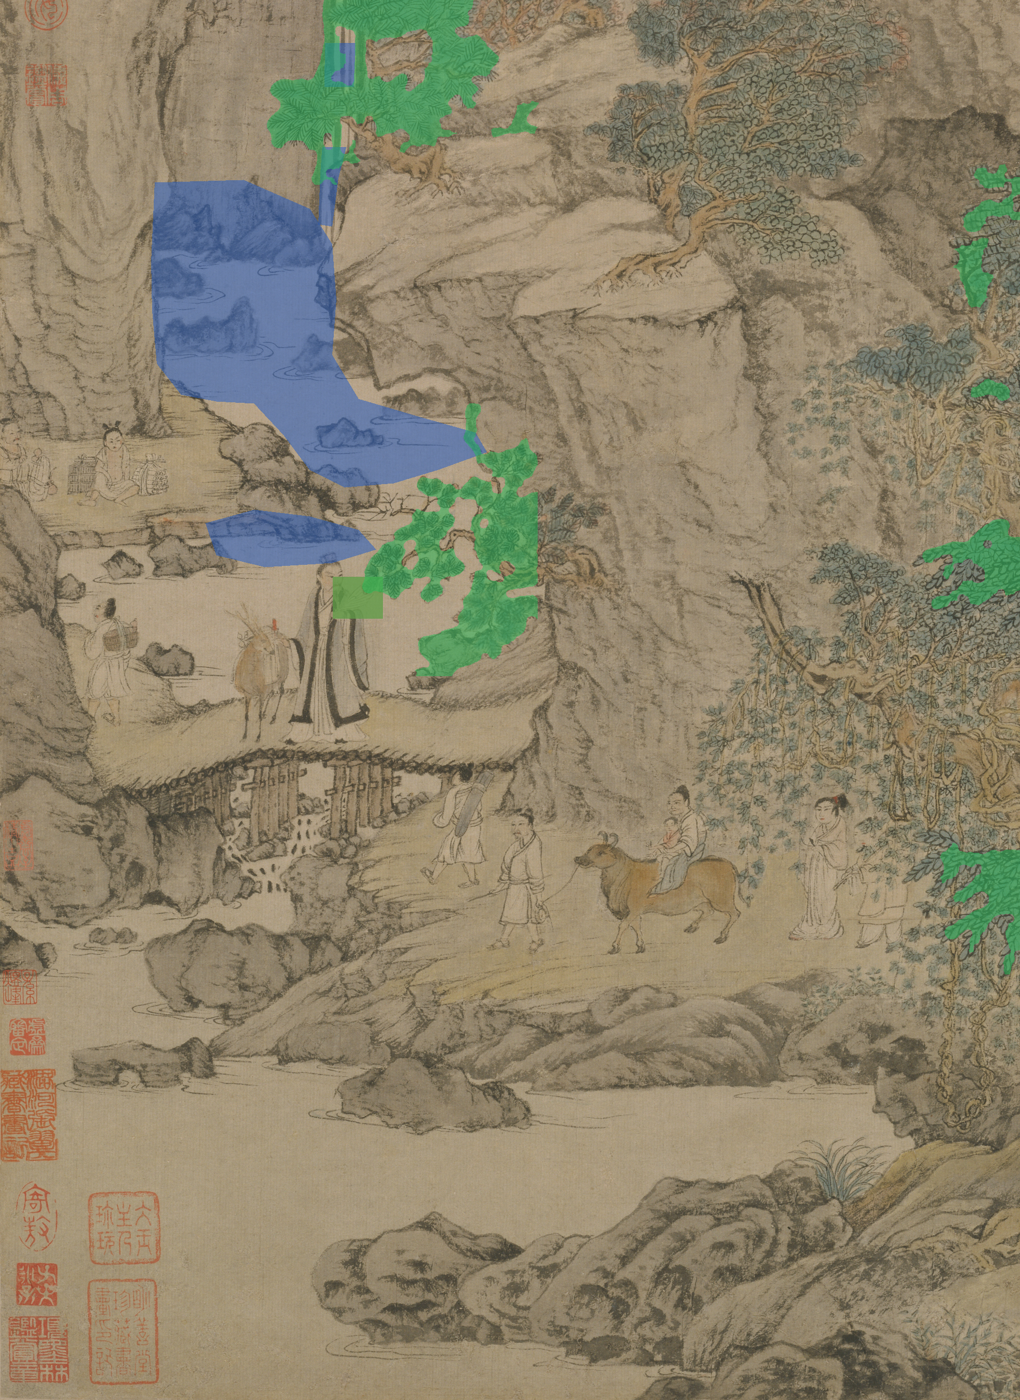
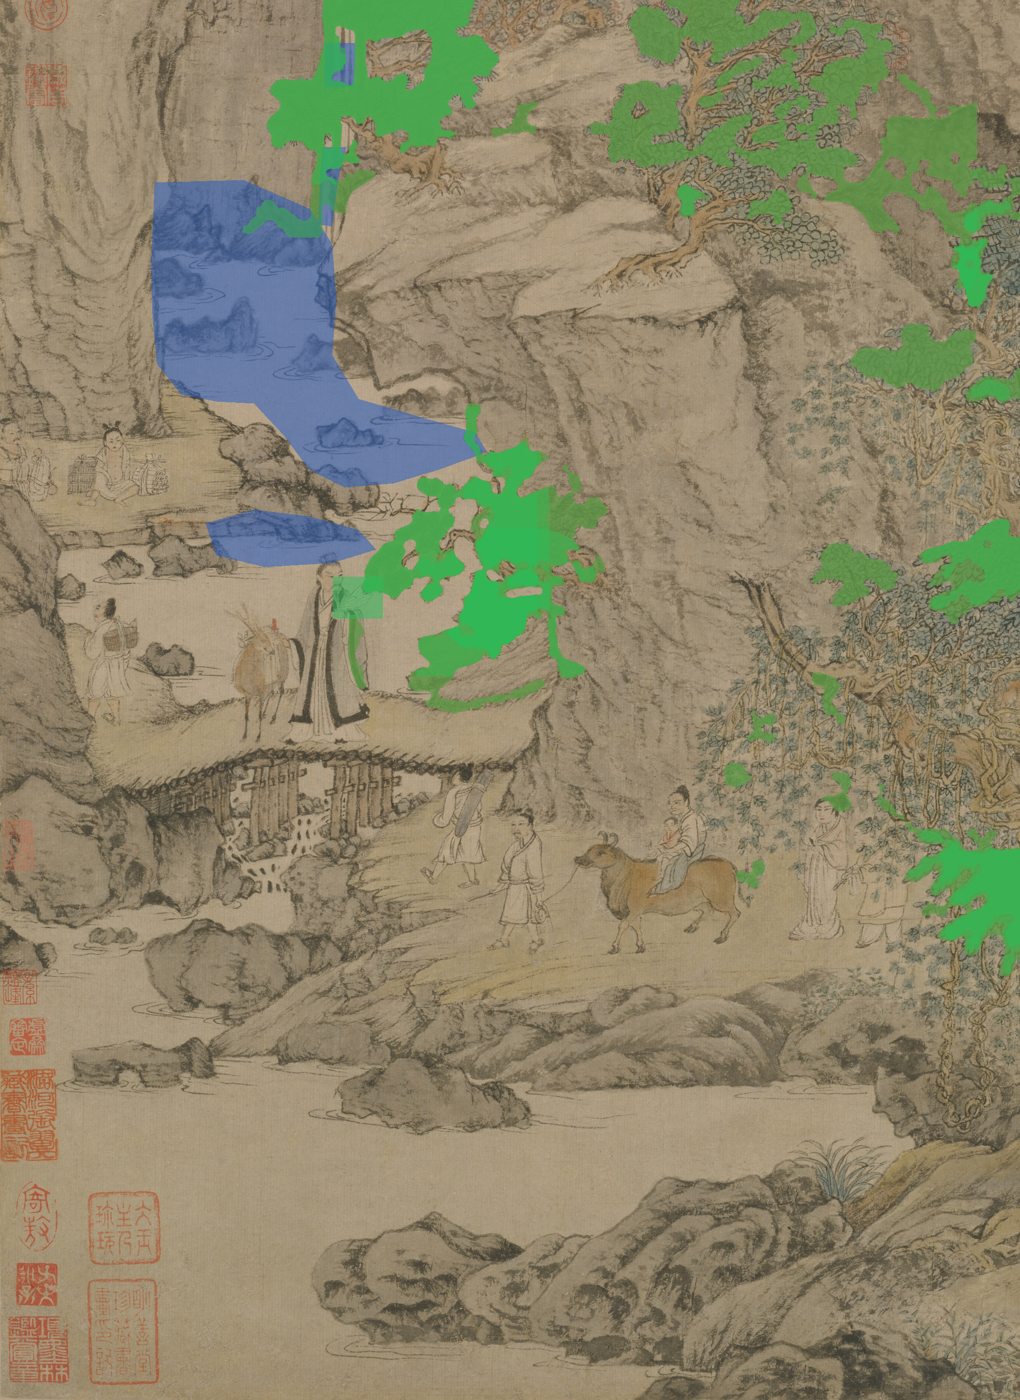
z1's living layer rebuilt from the catalogue: 46 patches, foliage 8 to 33
Full chain live for the first time: the catalogue decides what a leaf is, SAM
makes the boundary exact, the ink cut picks the marks, and the card swings over
held leaves rather than a synthesised plate.

  living-masks   8 -> 24 regions
  built.json    21 -> 46 patches  (foliage 8 -> 33, wave 8, figure 3, fall 2)

Three bugs fixed on the way, all the same shape -- a legitimate EMPTY RESULT
treated as an error:
  * hinge-foliage REQUIRED --plate and opened it even under hold, so every new
    region died on a clean plate the builder had correctly stopped making. Only
    the 8 old regions passed, on stale plates from earlier builds.
  * build-zone-living still PASSED that plate path. Removing the step but
    leaving its argument is half a change.
  * a region whose ink never reaches --min-px once the leaf mask has gated it
    (cat-pine-top-roots, a bamboo tuft) exited non-zero and took 23 other
    regions with it. Now skipped with a line saying so; anything else still
    stops the build.

Expect the same shape again when the catalogue reaches the summits, where whole
tiles are bare silk.

diff --git a/jobs/wang-meng/living/build-zone-living.py b/jobs/wang-meng/living/build-zone-living.py
@@ -102,7 +102,8 @@ def _foliage_motion(wd, cls, pivot, cx0, cy0, exclude=None):
                   "--grow", str(cls.get("cleanGrow", 4)),
                   "--method", cls.get("cleanMethod", "shiftmap")]
     hinge = ["python3", str(ROOT / "tools/hinge-foliage.py"),
-             "--plate", str(clean), "--source", str(wd / "plate.png"),
+             *([] if cls.get("under") == "hold" else ["--plate", str(clean)]),
+             "--source", str(wd / "plate.png"),
              "--cards", str(wd / "mask"),
              "--out", str(wd / "drawings"), "--preview", str(wd / "preview.mp4"),
              "--frames", str(cls.get("drawings", 96) * cls.get("on", 2)),
@@ -626,10 +627,23 @@ if a.stage == "cycle":
 
         fn = TECHNIQUES[cls["technique"]]
         args = (wd, cls, pivot, cx0, cy0) + ((extra,) if extra is not None else ())
+        # A REGION THAT YIELDS NO CARD IS AN ANSWER, NOT A FAILURE, and it must
+        # not take 23 other regions down with it. Catalogued leaf masses are
+        # authored at every scale: some are a bamboo tuft whose ink never reaches
+        # --min-px once the leaf mask has gated it. Skip it, say so, keep going.
+        # Anything else still stops the build.
+        empty = False
         for step in fn(*args):
             res = subprocess.run(step, cwd=ROOT, capture_output=True, text=True)
             if res.returncode != 0:
+                if "reached --min-px" in res.stderr or "no card" in res.stderr:
+                    print(f"    {uid}: no card met --min-px -- region left still",
+                          file=sys.stderr)
+                    empty = True
+                    break
                 sys.exit(f"{uid}: {Path(step[1]).name} failed\n{res.stderr[-900:]}")
+        if empty:
+            continue
         cyc = json.loads((wd / "drawings" / "cycle.json").read_text())
         draw = [np.array(Image.open(wd / "drawings" / f"dr-{i:03d}.png").convert("RGB"))
                 for i in range(cyc["drawings"])]

diff --git a/tools/hinge-foliage.py b/tools/hinge-foliage.py
@@ -64,7 +64,11 @@ from PIL import Image
 Image.MAX_IMAGE_PIXELS = None
 
 p = argparse.ArgumentParser()
-p.add_argument('--plate', required=True, help='background with the cards removed')
+p.add_argument('--plate', help='background with the cards removed. NOT REQUIRED under '
+                    '--under hold, which never reads it: the source stays intact beneath the '
+                    'cards, so there is no hole for a clean plate to fill. Demanding one there '
+                    'forces a caller to synthesise a plate it will not use, which is the cost '
+                    'that kept foliage coverage at 8 authored regions on this painting.')
 p.add_argument('--under', choices=('clean', 'hold'), default='clean',
                help="what a card reveals when it swings off its rest position. "
                     "clean = the synthesised ground from --plate (bare silk and "
@@ -196,8 +200,18 @@ p.add_argument('--ink-close', type=int, default=1,
                     'without bridging across clusters')
 a = p.parse_args()
 
-plate = np.array(Image.open(a.plate).convert('RGB'), np.float32)
+if a.under == 'hold':
+    # Nothing is removed, so the "background with the cards removed" IS the
+    # source. Bound to it rather than read from disk so the shape check below
+    # and the metadata stay meaningful.
+    plate = None
+elif not a.plate:
+    sys.exit('--plate is required unless --under hold')
+else:
+    plate = np.array(Image.open(a.plate).convert('RGB'), np.float32)
 src = np.array(Image.open(a.source).convert('RGB'), np.float32)
+if plate is None:
+    plate = src.astype(np.float32)
 if plate.shape != src.shape:
     sys.exit(f'plate {plate.shape[:2]} and source {src.shape[:2]} must be the same size')
 H, W = plate.shape[:2]
